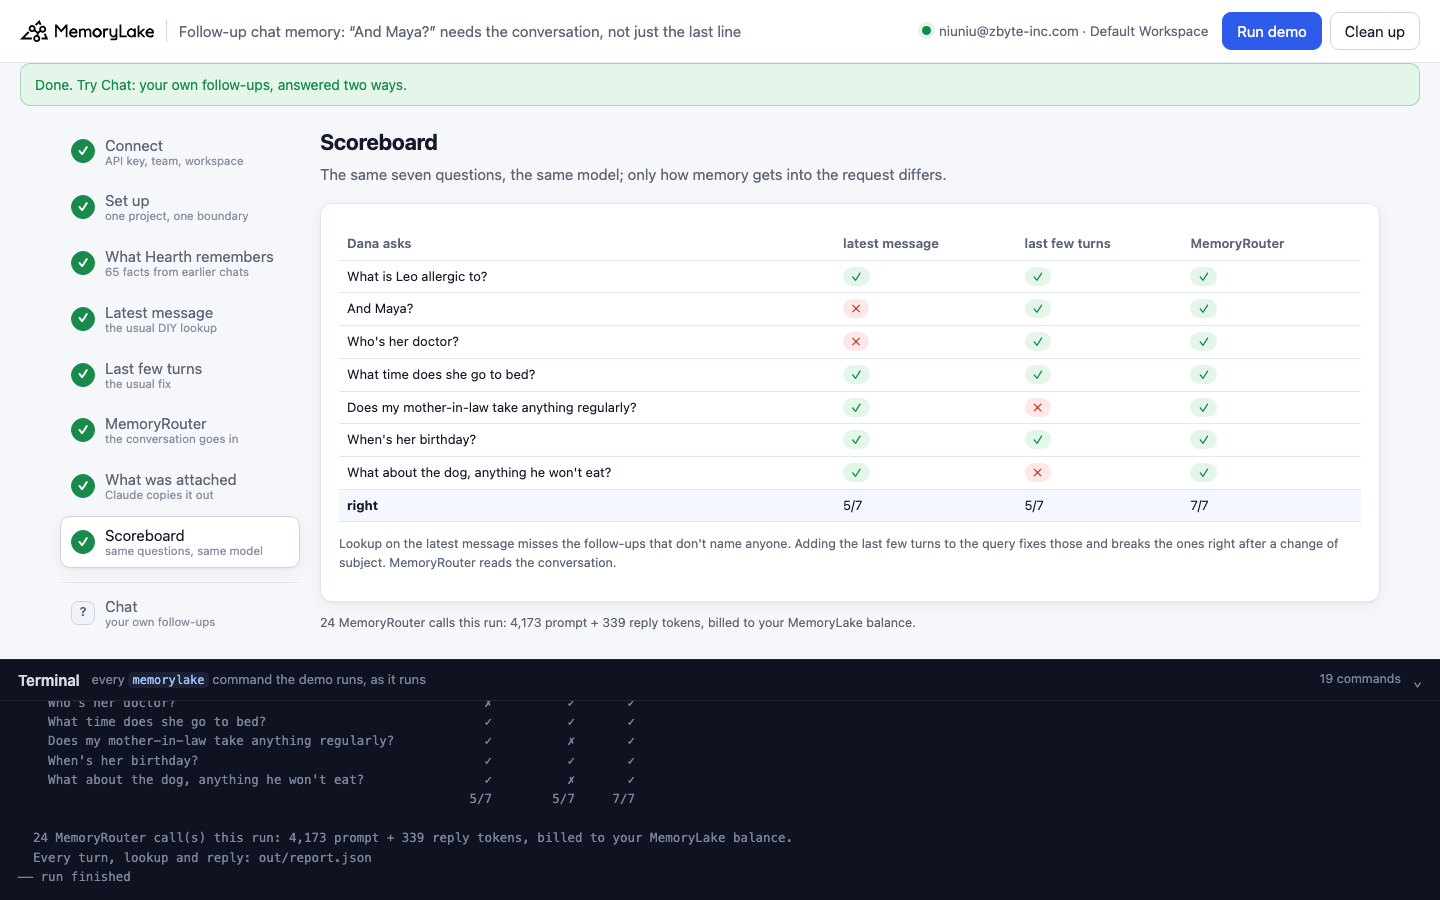
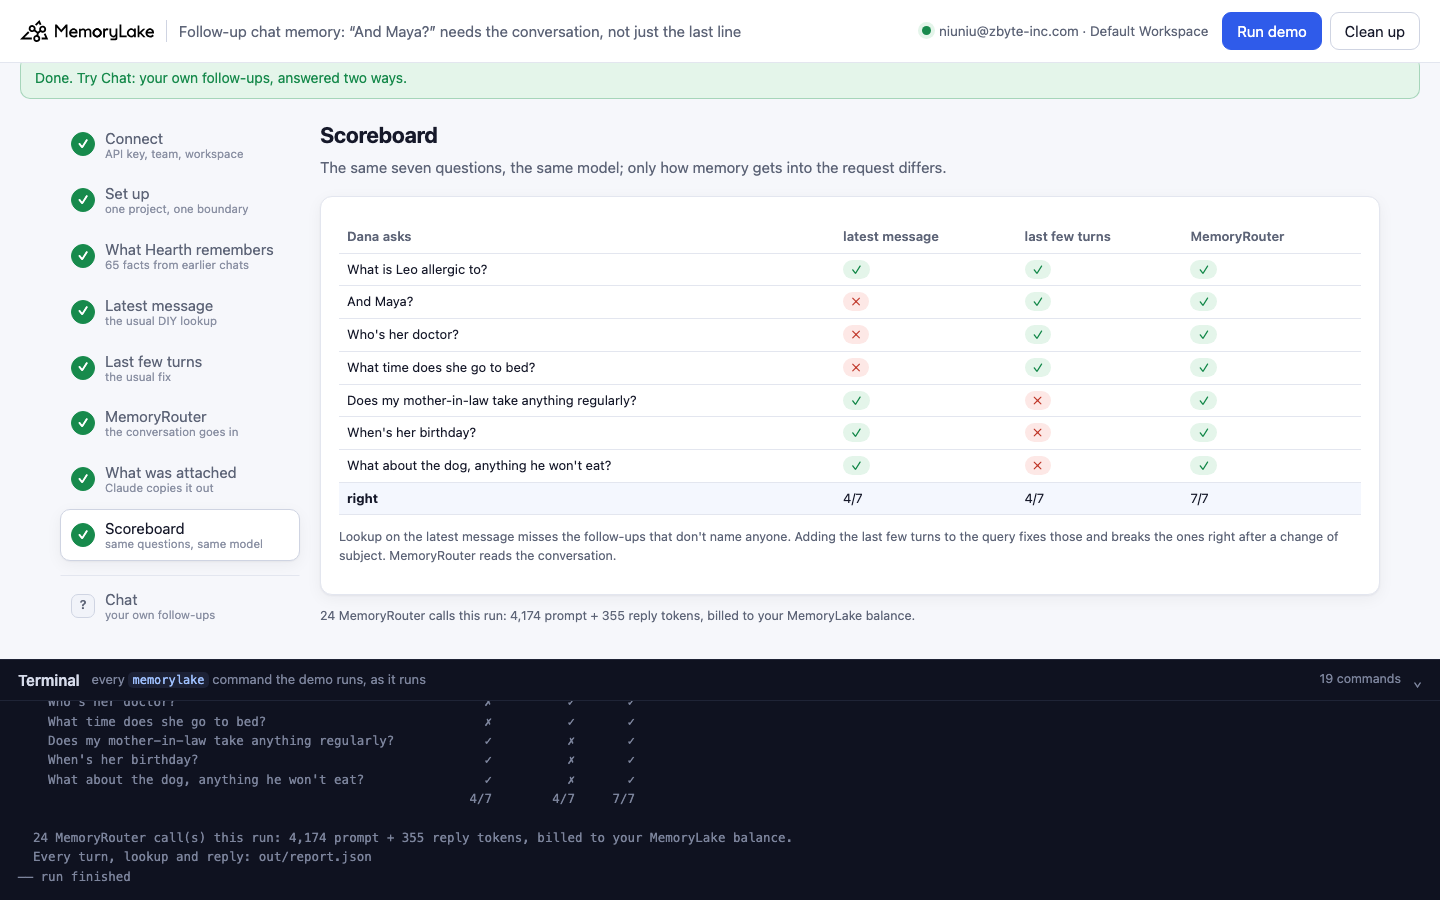
followup-chat-memory: videos (release v1), totals over every run, recording screenshots

diff --git a/followup-chat-memory/README.md b/followup-chat-memory/README.md
@@ -4,7 +4,8 @@ A runnable version of the MemoryLake use case
 [*Give Chatbots a Conversation Memory That Never Resets*](https://www.memorylake.ai/en/usecase/conversation-memory-api-for-chatbots),
 built entirely on the [`memorylake` CLI](https://github.com/memorylake-ai/memorylake-cli) (v20261015 or later).
 
-**Watch it run:** recording in progress.
+**Watch it run:** [CLI, 3:45](https://github.com/memorylake-ai/memorylake-usecases/releases/download/followup-chat-memory-v1/followup-chat-memory-cli-demo.mp4) · [Web, 4:19](https://github.com/memorylake-ai/memorylake-usecases/releases/download/followup-chat-memory-v1/followup-chat-memory-web-demo.mp4)
+([release](https://github.com/memorylake-ai/memorylake-usecases/releases/tag/followup-chat-memory-v1); GitHub serves them as downloads).
 
 **The problem.** A chatbot with long-term memory has to decide, on every turn, which memories go into the prompt. The
 usual do-it-yourself way is to search memory with what the user just typed. That works for "What is Leo allergic
@@ -20,9 +21,9 @@ same model (`gpt-4o-mini`, temperature 0) three ways. The only difference is how
 
 | Step | Approach | What you see |
 |---|---|---|
-| 4 | **Lookup on the latest message**: `memorylake search "<what Dana just typed>"`, top 3 pasted into the system prompt | "And Maya?" and "Who's her doctor?" bring back Maya's age, birthday, school, or Nora's doctor. Hearth: *"I don't have information about Maya's allergies."* **4–5 of 7 right** |
-| 5 | **Lookup on the last few turns** (the usual fix): the last two user turns + the latest message as one query | The follow-ups about Maya now work. When Dana changes subject, the earlier topic drags along: the lookup for the dog question returns Nora's facts and Hearth makes up *"The dog won't eat carrots."* **5 of 7 right** |
-| 6 | **MemoryRouter**: `router chat --body <conversation so far> --boundary <id>` | MemoryRouter reads the conversation, so each follow-up gets the fact about the person it points back to. **7 of 7 right** |
+| 4 | **Lookup on the latest message**: `memorylake search "<what Dana just typed>"`, top 3 pasted into the system prompt | "And Maya?" and "Who's her doctor?" bring back Maya's age, birthday, school, or Nora's doctor. Hearth: *"I don't have information about Maya's allergies."* **4–5 of 7 right** in every run |
+| 5 | **Lookup on the last few turns** (the usual fix): the last two user turns + the latest message as one query | The follow-ups about Maya now work. When Dana changes subject, the earlier topic drags along: the lookup for the dog question returns Nora's facts and Hearth makes up *"The dog won't eat carrots."* **4–5 of 7 right** |
+| 6 | **MemoryRouter**: `router chat --body <conversation so far> --boundary <id>` | MemoryRouter reads the conversation, so each follow-up gets the fact about the person it points back to. **7 of 7 right**, every run |
 | 7 | **What MemoryRouter attached**: the same conversation through the same boundary to Claude, told to copy out its memory first | On "And Maya?" MemoryRouter attached exactly one line, *Maya is allergic to penicillin.* The latest-message lookup had brought back *Maya is Dana's daughter, 6.* |
 | 8 | Scoreboard | Seven questions × three approaches, ✓/✗ |
 
@@ -71,7 +72,8 @@ Same pipeline, one view per step: each approach as a chat transcript (with what 
 of Dana's messages), what MemoryRouter attached next to what the lookup got, the scoreboard, a **Chat** page where your
 own messages are answered both ways side by side, and a terminal drawer with every `memorylake` command as it runs.
 
-![Lookup on the latest message: "I do not know who Maya's doctor is"](web/screenshot-last.png)
+![Lookup on the latest message: "I don't have information about Maya's doctor"](web/screenshot-last.png)
+![Chat: your own follow-ups, answered both ways](web/screenshot-chat.png)
 ![What MemoryRouter attached to the follow-ups](web/screenshot-attached.png)
 ![Scoreboard](web/screenshot-score.png)
 
@@ -194,20 +196,24 @@ not a log of the exact call in step 6.
 
 ## Measured
 
-All fresh runs while building this demo (3 in the terminal, 1 in the browser), plus 2 runs of the same chat in the
-feasibility probe:
+Every fresh run while building and recording this demo (3 in the terminal, 1 browser check, the 2 recordings), plus
+the `chat --arm last` subcommand twice and 2 runs of the same chat in the feasibility probe:
 
 | | runs | right answers |
 |---|---|---|
-| Lookup on the latest message | 6 | **28 / 42** (5, 4, 5, 5 in the demo; 5, 4 in the probe). Misses only on follow-ups that do not name anyone ("And Maya?", "Who's her doctor?", "What time does she go to bed?"), and every miss is "I don't have information about …" |
-| Lookup on the last few turns | 5 | **25 / 35** (5 every time). Misses only on the two turns right after a change of subject, and the replies are made up ("carrots", "vegetables", "as prescribed by Dr. Moreau") |
-| MemoryRouter with the conversation | 6 | **42 / 42** |
-| Checker: the follow-up's own fact among the attached lines | 4 | 11 / 12 ("And Maya?", "Who's her doctor?", the dog question). In the one miss, Claude copied out only the dog's allergy for "anything he won't eat?" |
+| Lookup on the latest message | 10 | **45 / 70** (4 or 5 every time). Misses only on follow-ups that do not name anyone ("And Maya?", "Who's her doctor?", "What time does she go to bed?"), and every miss is "I don't have information about …" / "I do not know …" |
+| Lookup on the last few turns | 7 | **34 / 49** (5 six times, 4 once). Misses on the turns after a change of subject, and the replies are made up ("carrots", "vegetables", "as prescribed by Dr. Moreau") |
+| MemoryRouter with the conversation | 8 | **56 / 56** |
+| Checker: the follow-up's own fact among the attached lines | 6 | 17 / 18 ("And Maya?", "Who's her doctor?", the dog question). In the one miss, Claude copied out only the dog's allergy for "anything he won't eat?" |
 
-- "What time does she go to bed?" is the turn that varies: the lookup for it sometimes has Maya's bedtime in the top 3
-  (after Nora's), sometimes not.
+- "What time does she go to bed?" is the turn that varies for the latest-message lookup: its top 3 sometimes has
+  Maya's bedtime (after Nora's), sometimes not.
 - MemoryRouter attached 1 to 3 lines per follow-up. In the feasibility probe it also resolved a reference three turns
   back ("Back to the dog: what does he eat for dinner?", 2/2) and a change of subject with no pronoun at all.
+- The browser's Chat page shows the same thing on your own messages. In the recording, after "What does Sam play on
+  weekends?", "And Maya?" got *"Maya enjoys playing at the park and doing arts and crafts on weekends"* from the
+  latest-message lookup (made up; the top 3 were her age, birthday and school) and *"Maya has ballet class on
+  Saturdays"* through MemoryRouter.
 - One model (`gpt-4o-mini`) was measured for the answers; the lookups are MemoryLake `search` with `--top-k 3`.
 
 ## Use it in your own app

diff --git a/README.md b/README.md
@@ -78,7 +78,7 @@ that memory can hold once it is more than coding sessions.
 | [brand-voice-memory](brand-voice-memory/) | Brand, content and growth teams writing with AI | Three AI tools on three APIs (`router chat` / `router responses` / `router messages`, CLI v20261015) pass one boundary over the brand memory; a linter checks every draft and an inspector shows what each model received. No memory: 77/84 drafts off-brand over 7 runs; day one (10 facts): 10/84. A quarter later the memory has 50 facts and relevance retrieval attaches only the topic facts: the banned-words rule went from 16/16 briefs to 0/16 and 71/84 drafts were off-brand again. One voice card naming every channel: attached 16/16, 5/84 off-brand | ~2 min | [CLI 3:11](https://github.com/memorylake-ai/memorylake-usecases/releases/download/brand-voice-memory-v1/brand-voice-memory-cli-demo.mp4) · [Web 4:01](https://github.com/memorylake-ai/memorylake-usecases/releases/download/brand-voice-memory-v1/brand-voice-memory-web-demo.mp4) |
 | [long-term-llm-memory](long-term-llm-memory/) | Developers giving an LLM app long-term memory | One user's memory grows from 20 to 100 to 400 facts; the same four questions are asked with no memory, with the whole memory pasted into the prompt (`router chat --body`), and through MemoryRouter (`--boundary`). Pasted: 395 → 1,822 → 6,911 memory tokens per question, and at 400 facts 0 of 18 birthday lists exact over 9 runs (contacts listed under the wrong month every time). MemoryRouter: 78–158 tokens at every size, 108/108 answers exact | ~2 min | [CLI 4:17](https://github.com/memorylake-ai/memorylake-usecases/releases/download/long-term-llm-memory-v1/long-term-llm-memory-cli-demo.mp4) · [Web 4:41](https://github.com/memorylake-ai/memorylake-usecases/releases/download/long-term-llm-memory-v1/long-term-llm-memory-web-demo.mp4) |
 | [renewal-pipeline-memory](renewal-pipeline-memory/) | Sales and customer-success teams (renewal reviews) | "Which accounts renew this quarter?" — through MemoryRouter, about half of them, and nothing says so. 160 renewal records and 60 call notes in one project, one boundary. Look-ups and one manager's 8 renewals are right (`router chat --boundary`); the whole team's 40 come back as 9–33 accounts in 9 of 9 runs, every name right, no hedge. A checker (Claude copying out what it was given) shows a bounded set of the right records, about 20, never 40. Count first: `fact list --query` (no top-k) + `router chat --body` lists 40/40 in 9 of 9. | ~2 min | [CLI 2:51](https://github.com/memorylake-ai/memorylake-usecases/releases/download/renewal-pipeline-memory-v1/renewal-pipeline-memory-cli-demo.mp4) · [Web 3:10](https://github.com/memorylake-ai/memorylake-usecases/releases/download/renewal-pipeline-memory-v1/renewal-pipeline-memory-web-demo.mp4) |
-| [followup-chat-memory](followup-chat-memory/) | Developers building chatbots (multi-turn chat) | "And Maya?" — a follow-up that doesn't say what it is about. A family-assistant chatbot remembers 65 facts about one user; one chat of seven questions, only the first names who it is about. Lookup on the latest message (`search` → prompt) gets someone else's facts and answers "I don't have information" (28/42 over 6 runs); a window of recent turns drags the old subject into the new one and makes answers up (25/35); MemoryRouter with the conversation in the body (`router chat --body … --boundary`) 42/42. A checker shows what it attached on each follow-up. | ~2½ min | recording |
+| [followup-chat-memory](followup-chat-memory/) | Developers building chatbots (multi-turn chat) | "And Maya?" — a follow-up that doesn't say what it is about. A family-assistant chatbot remembers 65 facts about one user; one chat of seven questions, only the first names who it is about. Lookup on the latest message (`search` → prompt) gets someone else's facts and answers "I don't have information" (45/70 over 10 runs); a window of recent turns drags the old subject into the new one and makes answers up (34/49); MemoryRouter with the conversation in the body (`router chat --body … --boundary`) 56/56. A checker shows what it attached on each follow-up. | ~2½ min | [CLI 3:45](https://github.com/memorylake-ai/memorylake-usecases/releases/download/followup-chat-memory-v1/followup-chat-memory-cli-demo.mp4) · [Web 4:19](https://github.com/memorylake-ai/memorylake-usecases/releases/download/followup-chat-memory-v1/followup-chat-memory-web-demo.mp4) |
 
 The videos are real, unedited recordings; every asset lives on the [releases page](https://github.com/memorylake-ai/memorylake-usecases/releases).
 
